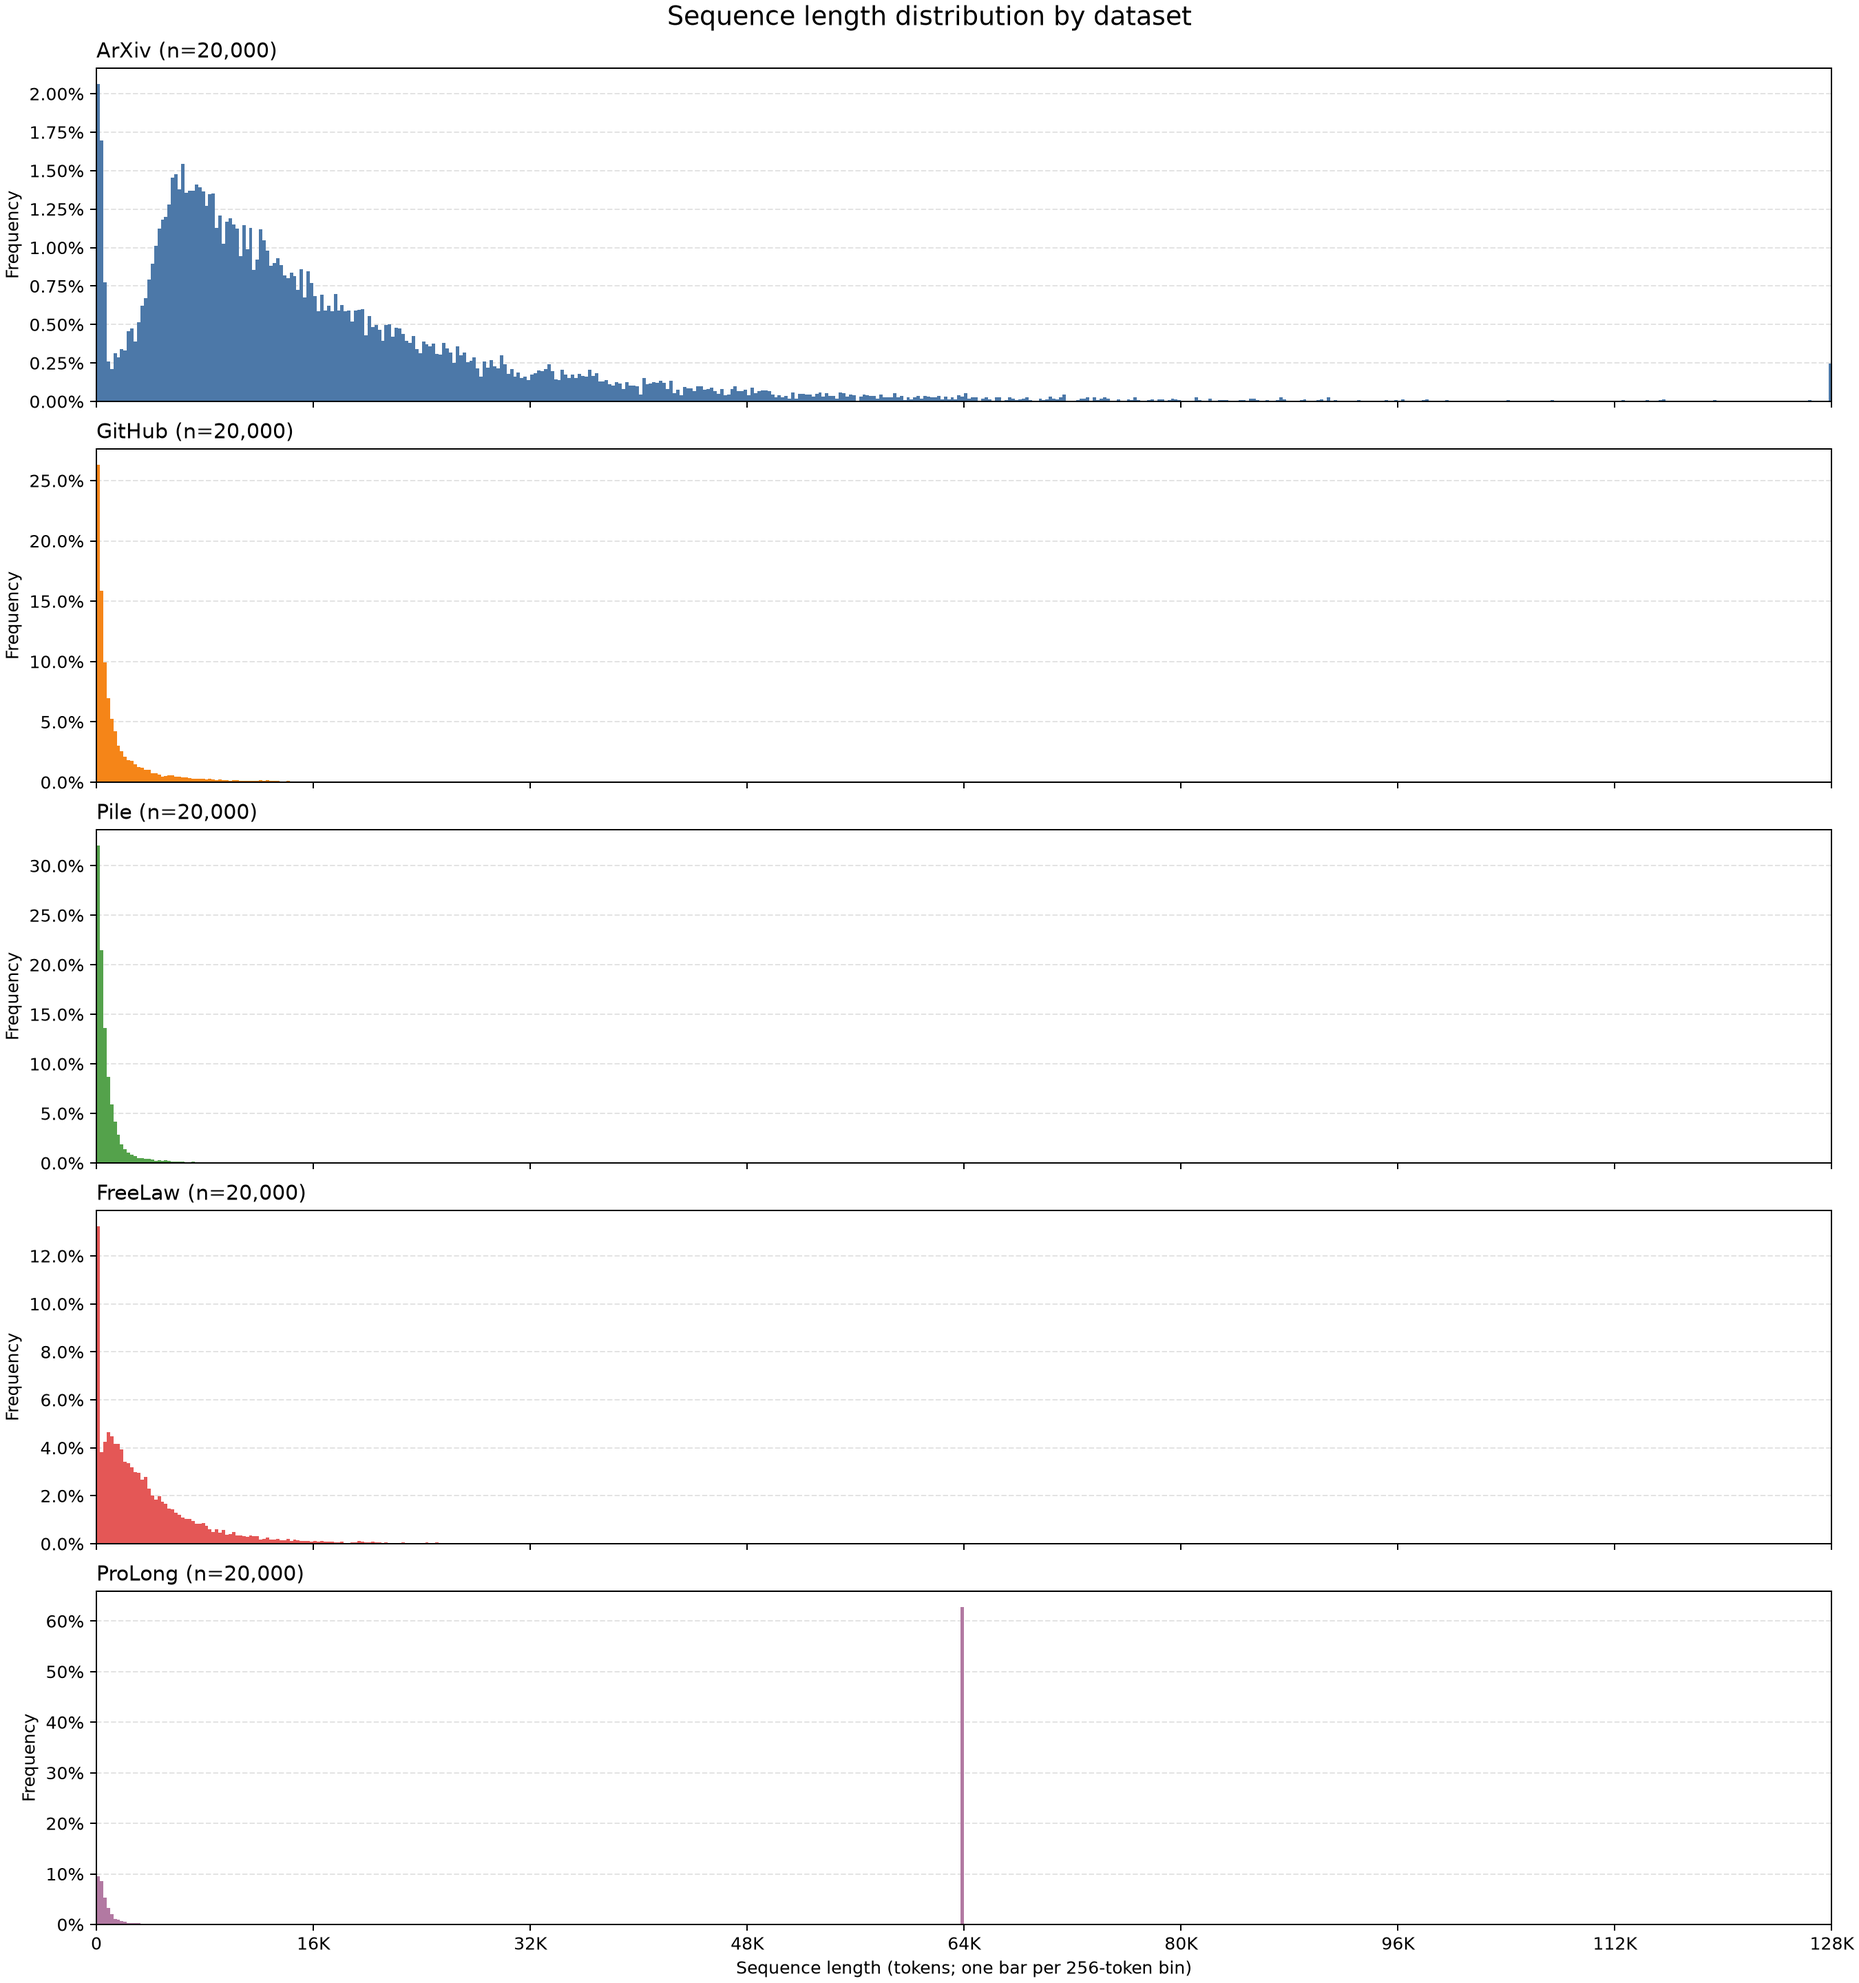
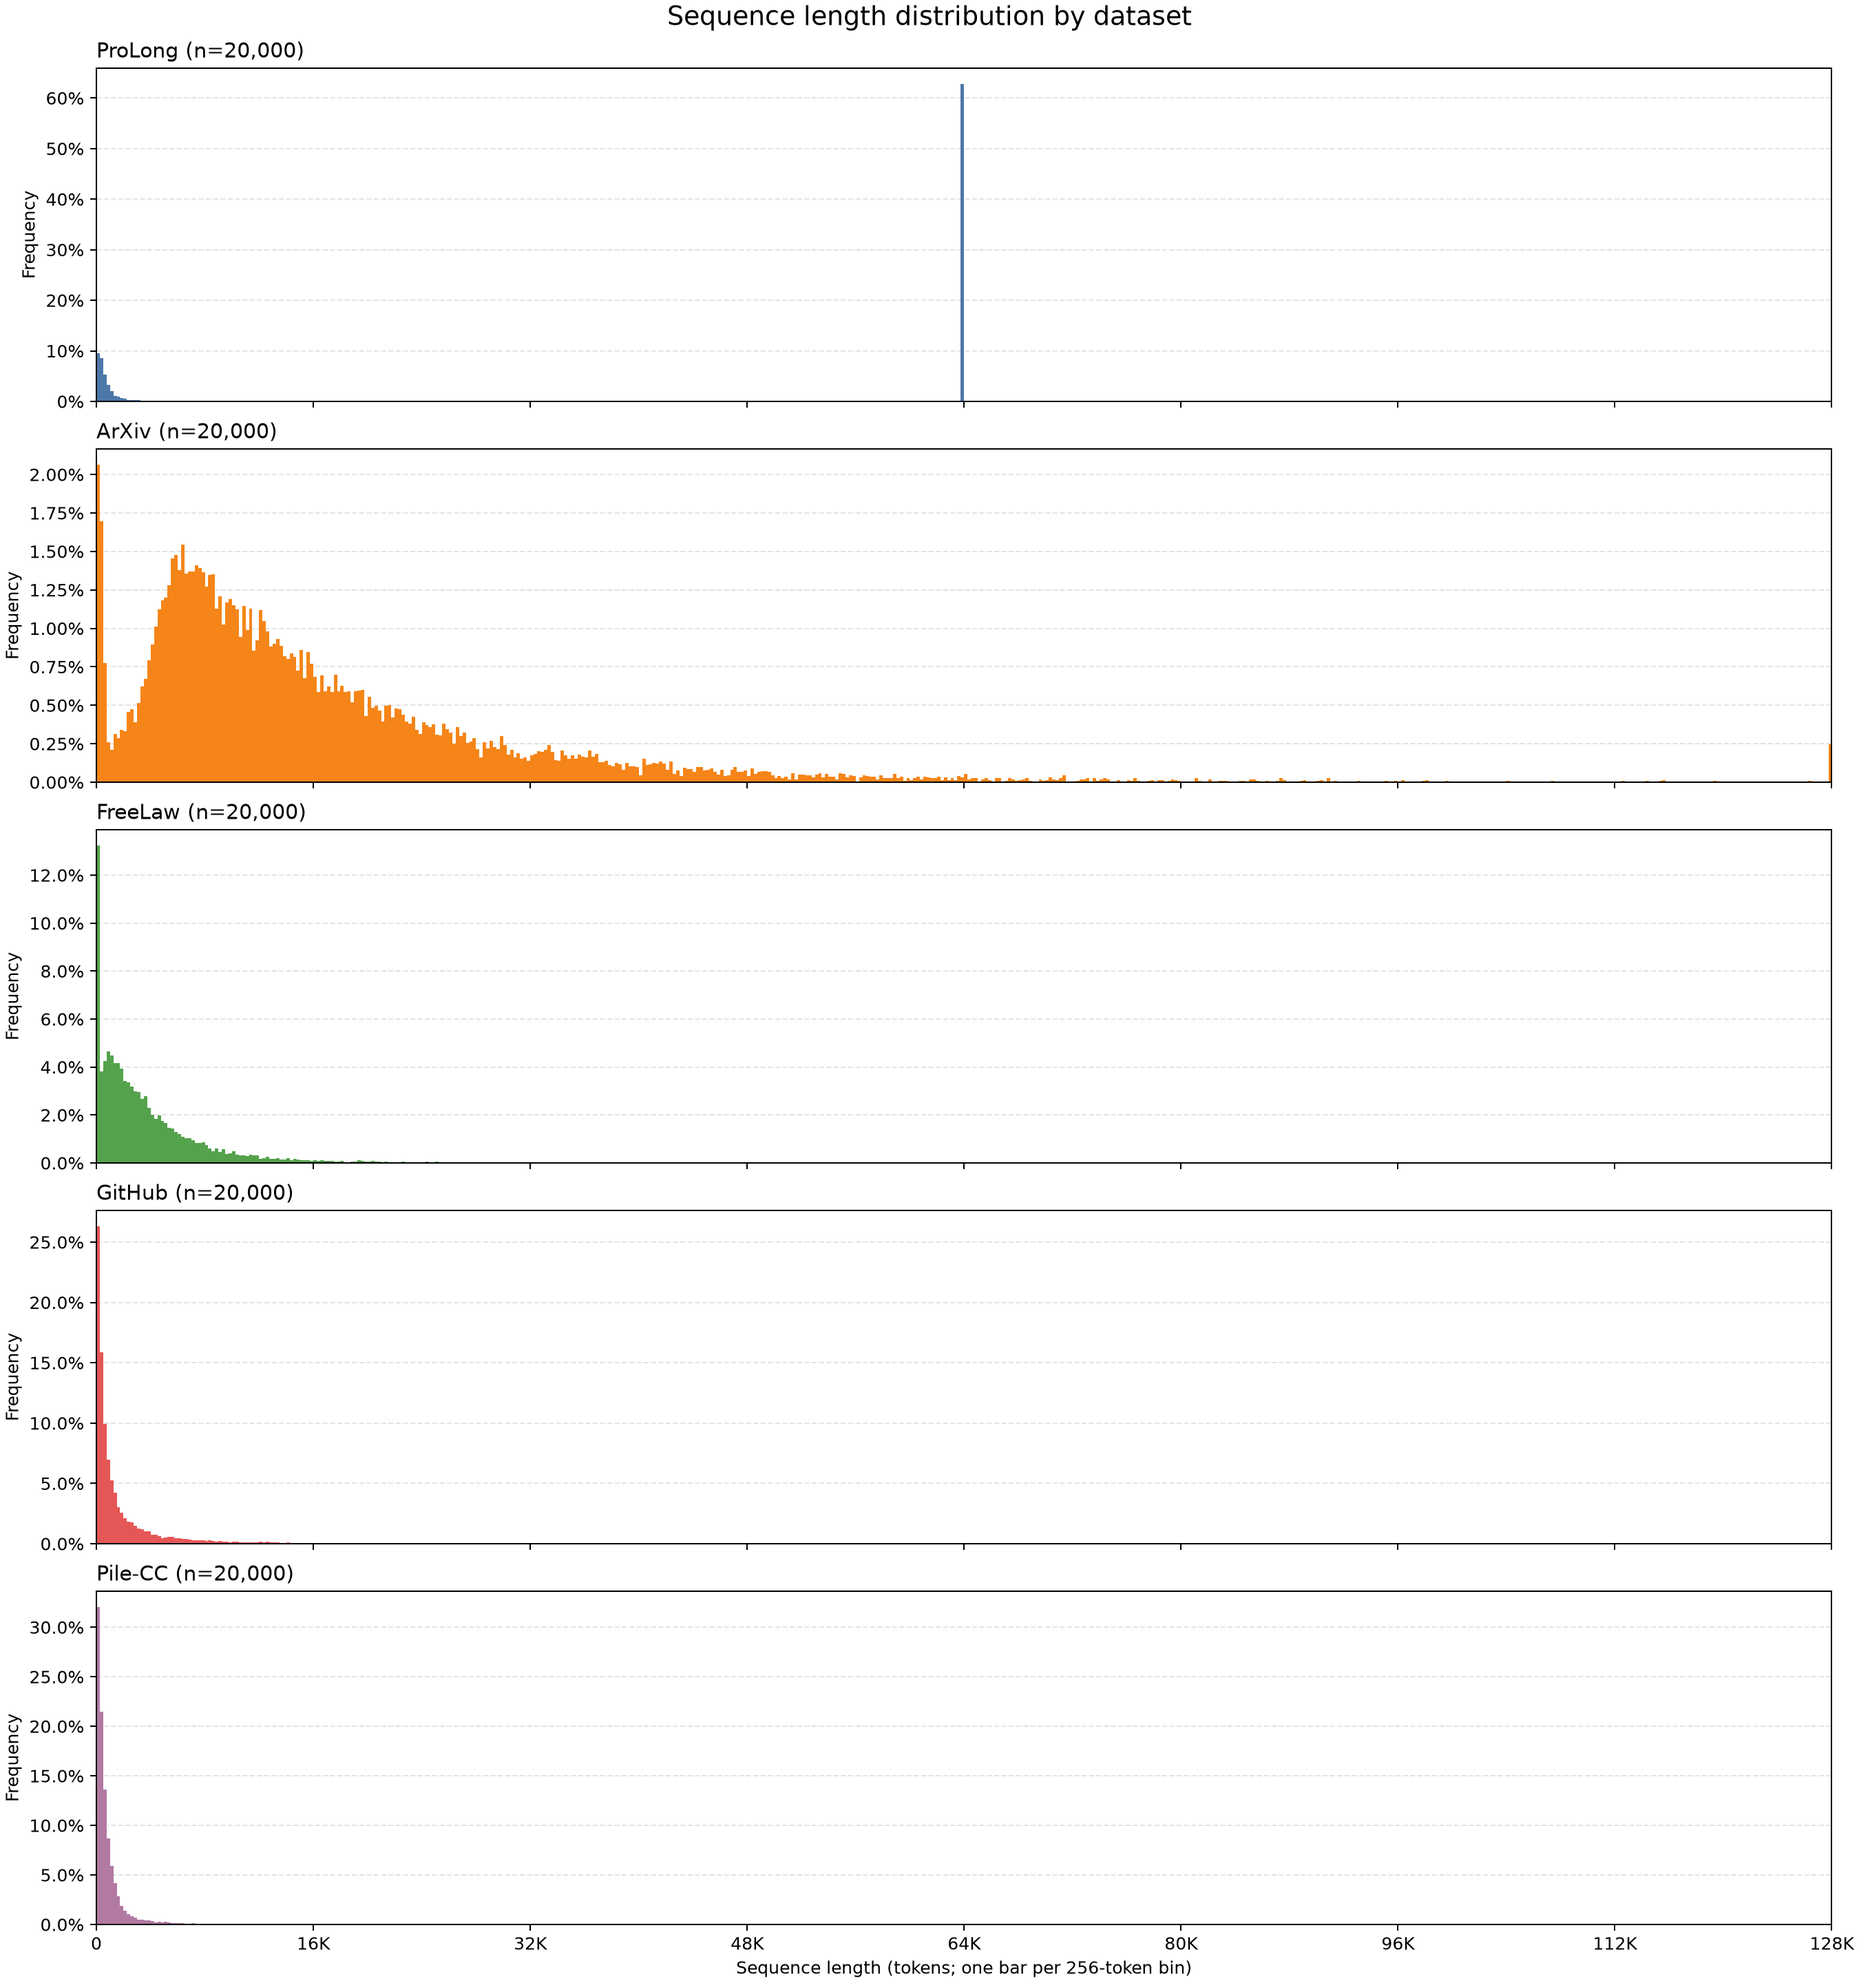
update scripts

diff --git a/benchmark_logs/plot_forward_ablation.py b/benchmark_logs/plot_forward_ablation.py
@@ -21,6 +21,7 @@ DEFAULT_RUN_DIR = SCRIPT_DIR / "experiment_queue" / "20260726-002324"
 DEFAULT_TOKEN_COUNTS = (65536, 131072, 262144)
 DEFAULT_OUTPUT = DEFAULT_RUN_DIR / "forward_ablation_arxiv.png"
 GPU_COUNT = 8
+TARGET_SM_CONFIG = "124:8"
 
 PROFILE_LABELS = {
     "step_external_reduce": "Step +\nexternal reduce",
@@ -43,7 +44,7 @@ class AblationRecord:
 
 
 def parse_records(path: Path) -> list[AblationRecord]:
-    """Select the best-SM L1-L6 rows from a cross-case ablation summary."""
+    """Select the L1-L6 rows at the fixed target SM configuration."""
 
     if not path.is_file():
         raise FileNotFoundError(f"ablation log does not exist: {path}")
@@ -64,6 +65,8 @@ def parse_records(path: Path) -> list[AblationRecord]:
             continue
         if len(fields) != 11:
             raise ValueError(f"malformed summary row at {path}:{line_number}: {line}")
+        if fields[2] != TARGET_SM_CONFIG:
+            continue
         level = int(fields[0][1:])
         if re.fullmatch(r"\d+:\d+", fields[2]) is None or re.fullmatch(
             r"\d+/\d+", fields[3]
@@ -83,13 +86,12 @@ def parse_records(path: Path) -> list[AblationRecord]:
             mean_gpu_tflops=mean_gpu_tflops,
         )
         current = records_by_level.get(level)
-        if current is not None and current.profile != record.profile:
+        if current is not None:
             raise ValueError(
-                f"inconsistent profile for L{level} at {path}:{line_number}: "
-                f"{current.profile} versus {record.profile}"
+                f"duplicate L{level} row at SM {TARGET_SM_CONFIG} in "
+                f"{path}:{line_number}"
             )
-        if current is None or record.mean_gpu_tflops > current.mean_gpu_tflops:
-            records_by_level[level] = record
+        records_by_level[level] = record
 
     expected_levels = set(range(1, 7))
     found_levels = set(records_by_level)
@@ -97,7 +99,10 @@ def parse_records(path: Path) -> list[AblationRecord]:
         missing = ", ".join(f"L{level}" for level in sorted(expected_levels - found_levels))
         extra = ", ".join(f"L{level}" for level in sorted(found_levels - expected_levels))
         details = ", ".join(part for part in (f"missing {missing}" if missing else "", f"unexpected {extra}" if extra else "") if part)
-        raise ValueError(f"expected exactly L1-L6 performance rows in {path}; {details}")
+        raise ValueError(
+            f"expected exactly L1-L6 performance rows at SM {TARGET_SM_CONFIG} "
+            f"in {path}; {details}"
+        )
     return [records_by_level[level] for level in sorted(records_by_level)]
 
 
@@ -195,7 +200,7 @@ def make_figure(
             axis.set_xlabel("Ablation level")
 
     figure.suptitle(
-        f"{GPU_COUNT}-GPU ArXiv Mega Ring Forward Ablation",
+        f"{GPU_COUNT}-GPU ArXiv Mega Ring Forward Ablation (SM {TARGET_SM_CONFIG})",
         y=0.995,
         fontsize=16,
         fontweight="bold",
@@ -203,7 +208,7 @@ def make_figure(
     figure.text(
         0.5,
         0.01,
-        "Causal BF16, QH=16, KVH=8, D=128. Each level selects its highest mean per-GPU throughput SM configuration.",
+        f"Causal BF16, QH=16, KVH=8, D=128. All ablation levels use SM {TARGET_SM_CONFIG}.",
         ha="center",
         fontsize=9,
         color="#555555",

diff --git a/dataset/plot_sequence_length_buckets.py b/dataset/plot_sequence_length_buckets.py
@@ -18,10 +18,13 @@ SCRIPT_DIR = Path(__file__).resolve().parent
 DEFAULT_INPUT = SCRIPT_DIR / "sequence_length_buckets.json"
 DEFAULT_OUTPUT = SCRIPT_DIR / "sequence_length_buckets_frequency.png"
 COLORS = ("#4C78A8", "#F58518", "#54A24B", "#E45756", "#B279A2")
+DATASET_ORDER = ("prolong", "arxiv", "freelaw", "github", "pile-cc")
+DATASET_ALIASES = {"pile-cc": "pile"}
 DISPLAY_NAMES = {
     "arxiv": "ArXiv",
     "github": "GitHub",
-    "pile": "Pile",
+    "pile": "Pile-CC",
+    "pile-cc": "Pile-CC",
     "freelaw": "FreeLaw",
     "prolong": "ProLong",
 }
@@ -109,7 +112,18 @@ def plot_statistics(
     datasets: dict[str, dict[str, Any]],
     output_path: Path,
 ) -> None:
-    dataset_items = list(datasets.items())
+    normalized_datasets = {
+        name.lower(): (name, dataset) for name, dataset in datasets.items()
+    }
+    dataset_items = [
+        normalized_datasets[DATASET_ALIASES.get(name, name)]
+        for name in DATASET_ORDER
+        if DATASET_ALIASES.get(name, name) in normalized_datasets
+    ]
+    ordered_dataset_names = {name for name, _dataset in dataset_items}
+    dataset_items.extend(
+        item for item in datasets.items() if item[0] not in ordered_dataset_names
+    )
     figure, axes = plt.subplots(
         nrows=len(dataset_items),
         ncols=1,
